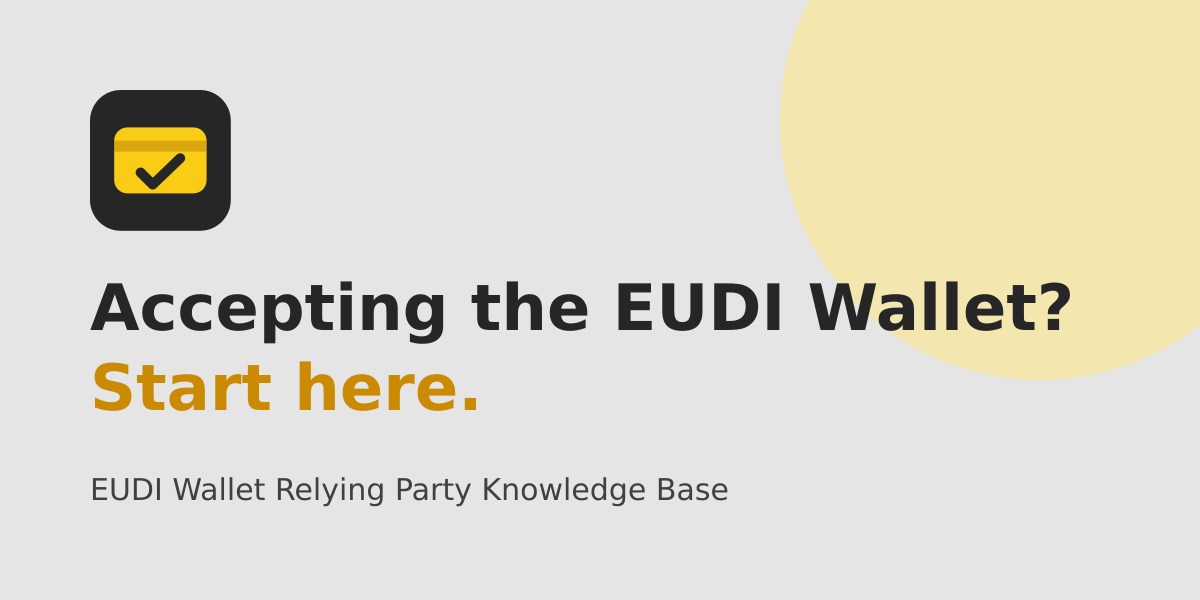
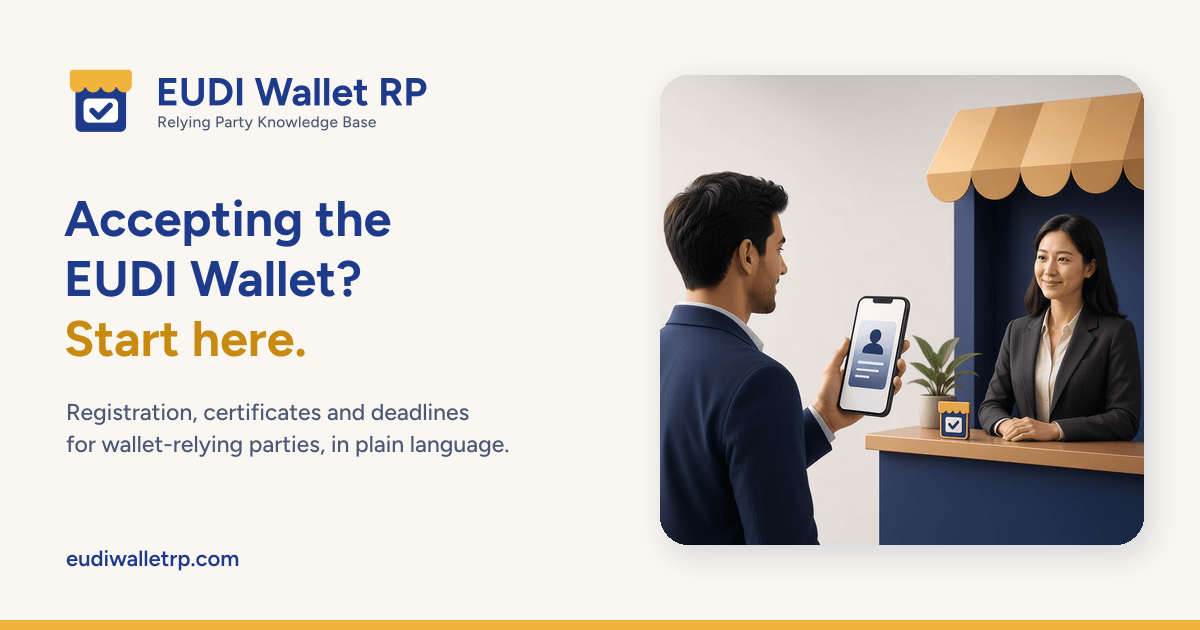
SEO: keyword homepage title, branded social card, noindex placeholders
- Homepage title and description aimed at EUDI Wallet relying parties
- New 1200x630 PNG social card with the storefront logo; og:image type,
  size and alt now match the file on every page
- /check/ og:title uses the page question
- Placeholder pages get noindex, follow and are left out of the sitemap
- Consistent og:locale (en_US), trailing-slash homepage canonical,
  theme-color and Twitter title/description on docs pages

diff --git a/src/starlightRouteData.ts b/src/starlightRouteData.ts
@@ -1,0 +1,63 @@
+import { defineRouteMiddleware } from '@astrojs/starlight/route-data';
+import {
+  OG_LOCALE,
+  SOCIAL_IMAGE,
+  THEME_COLORS,
+  isNoindexPath,
+} from './data_files/seo';
+
+/**
+ * Adjusts the <head> of every Starlight docs page: consistent og:locale,
+ * social image metadata, Twitter title/description, theme colours, and
+ * `noindex, follow` on placeholder pages.
+ */
+export const onRequest = defineRouteMiddleware(context => {
+  const route = context.locals.starlightRoute;
+  const head = route.head;
+  const site = context.site?.origin ?? 'https://eudiwalletrp.com';
+  const image = `${site}${SOCIAL_IMAGE.path}`;
+
+  const find = (attr: 'property' | 'name', key: string) =>
+    head.find(e => e.tag === 'meta' && e.attrs?.[attr] === key);
+  const upsert = (attr: 'property' | 'name', key: string, content: string) => {
+    const existing = find(attr, key);
+    if (existing) existing.attrs = { ...existing.attrs, content };
+    else head.push({ tag: 'meta', attrs: { [attr]: key, content } });
+  };
+
+  upsert('property', 'og:locale', OG_LOCALE);
+  upsert('property', 'og:image', image);
+  upsert('property', 'og:image:width', String(SOCIAL_IMAGE.width));
+  upsert('property', 'og:image:height', String(SOCIAL_IMAGE.height));
+  upsert('property', 'og:image:type', SOCIAL_IMAGE.type);
+  upsert('property', 'og:image:alt', SOCIAL_IMAGE.alt);
+  upsert('name', 'twitter:image', image);
+
+  const ogTitle = find('property', 'og:title')?.attrs?.content;
+  const ogDesc = find('property', 'og:description')?.attrs?.content;
+  if (typeof ogTitle === 'string') upsert('name', 'twitter:title', ogTitle);
+  if (typeof ogDesc === 'string') upsert('name', 'twitter:description', ogDesc);
+
+  head.push(
+    {
+      tag: 'meta',
+      attrs: {
+        name: 'theme-color',
+        content: THEME_COLORS.light,
+        media: '(prefers-color-scheme: light)',
+      },
+    },
+    {
+      tag: 'meta',
+      attrs: {
+        name: 'theme-color',
+        content: THEME_COLORS.dark,
+        media: '(prefers-color-scheme: dark)',
+      },
+    }
+  );
+
+  if (isNoindexPath(context.url.pathname)) {
+    upsert('name', 'robots', 'noindex, follow');
+  }
+});

diff --git a/src/data_files/seo.ts b/src/data_files/seo.ts
@@ -1,0 +1,46 @@
+/**
+ * SEO settings shared by the marketing pages, the Starlight docs and the
+ * sitemap.
+ *
+ * NOINDEX_PATHS lists placeholder ("Coming soon") pages. They get
+ * `<meta name="robots" content="noindex, follow">` and are left out of the
+ * sitemap. Remove a path here once its page has real content.
+ */
+export const NOINDEX_PATHS: readonly string[] = [
+  '/getting-started/',
+  '/getting-started/overview/',
+  '/getting-started/how-to-use/',
+  '/glossary/',
+  '/legal-regulatory/',
+  '/legal-regulatory/eidas-2/',
+  '/legal-regulatory/implementing-acts/',
+  '/legal-regulatory/data-protection/',
+  '/national-trackers/status-overview/',
+  '/national-trackers/methodology/',
+  '/registration-guide/who-needs-to-register/',
+  '/registration-guide/after-registration/',
+  '/technical-integration/credential-formats/',
+  '/technical-integration/testing/',
+];
+
+const withSlash = (p: string) => (p.endsWith('/') ? p : `${p}/`);
+
+export function isNoindexPath(pathname: string): boolean {
+  return NOINDEX_PATHS.includes(withSlash(pathname));
+}
+
+/** Social preview image (1200 × 630 PNG in /public). */
+export const SOCIAL_IMAGE = {
+  path: '/social.png',
+  width: 1200,
+  height: 630,
+  type: 'image/png',
+  alt: 'EUDI Wallet RP Knowledge Base: guidance for wallet-relying parties on registration, certificates and deadlines',
+};
+
+export const OG_LOCALE = 'en_US';
+
+export const THEME_COLORS = {
+  light: '#F2B33D',
+  dark: '#0B1633',
+};

diff --git a/src/copy/en.ts b/src/copy/en.ts
@@ -76,6 +76,11 @@ export const en = {
   },
 
   home: {
+    meta: {
+      title: 'EUDI Wallet for relying parties: registration, eIDAS and deadlines',
+      description:
+        'Independent, plain-language guidance for EUDI Wallet relying parties: whether you must accept the wallet, registration, access certificates and deadlines.',
+    },
     banner: {
       line: 'Grab the opportunity EUDI Wallet is offering to your business',
       sub: 'Answer a few short questions to see whether eIDAS requires you to accept the European Digital Identity Wallet. It runs entirely in your browser and nothing is stored.',
@@ -87,7 +92,7 @@ export const en = {
     tasks: {
       title: 'Already know you must? Start here.',
       subTitle:
-        'Every relying party registers in the Member State where it is established before relying on the wallet. These guides walk you through registration, certificates and what comes next.',
+        'Every wallet-relying party registers in the Member State where it is established before relying on the wallet. These guides walk you through registration, access and registration certificates, and what comes next.',
       items: [
         {
           heading: 'How to register',

diff --git a/src/utils/metadata.ts b/src/utils/metadata.ts
@@ -62,9 +62,9 @@ export interface PageMetadata {
   jsonLd: Record<string, unknown>;
 }
 
-/** Absolute URL on the marketing site; the root has no trailing slash. */
+/** Absolute URL on the marketing site (the root keeps its trailing slash, matching the sitemap). */
 export function absoluteUrl(path: string): string {
-  return path === '/' ? SITE.url : `${SITE.url}${path}`;
+  return `${SITE.url}${path.startsWith('/') ? path : `/${path}`}`;
 }
 
 export function buildPageMetadata(input: PageMetadataInput): PageMetadata {
@@ -78,7 +78,7 @@ export function buildPageMetadata(input: PageMetadataInput): PageMetadata {
     input.ogTitle ??
     (input.title && input.section
       ? `${input.title} | ${input.section} | ${SITE.title}`
-      : copy.site.ogTitle);
+      : (input.title ?? copy.site.ogTitle));
   const ogDescription = input.description ?? copy.site.ogDescription;
   const canonical = absoluteUrl(pathname);
 
